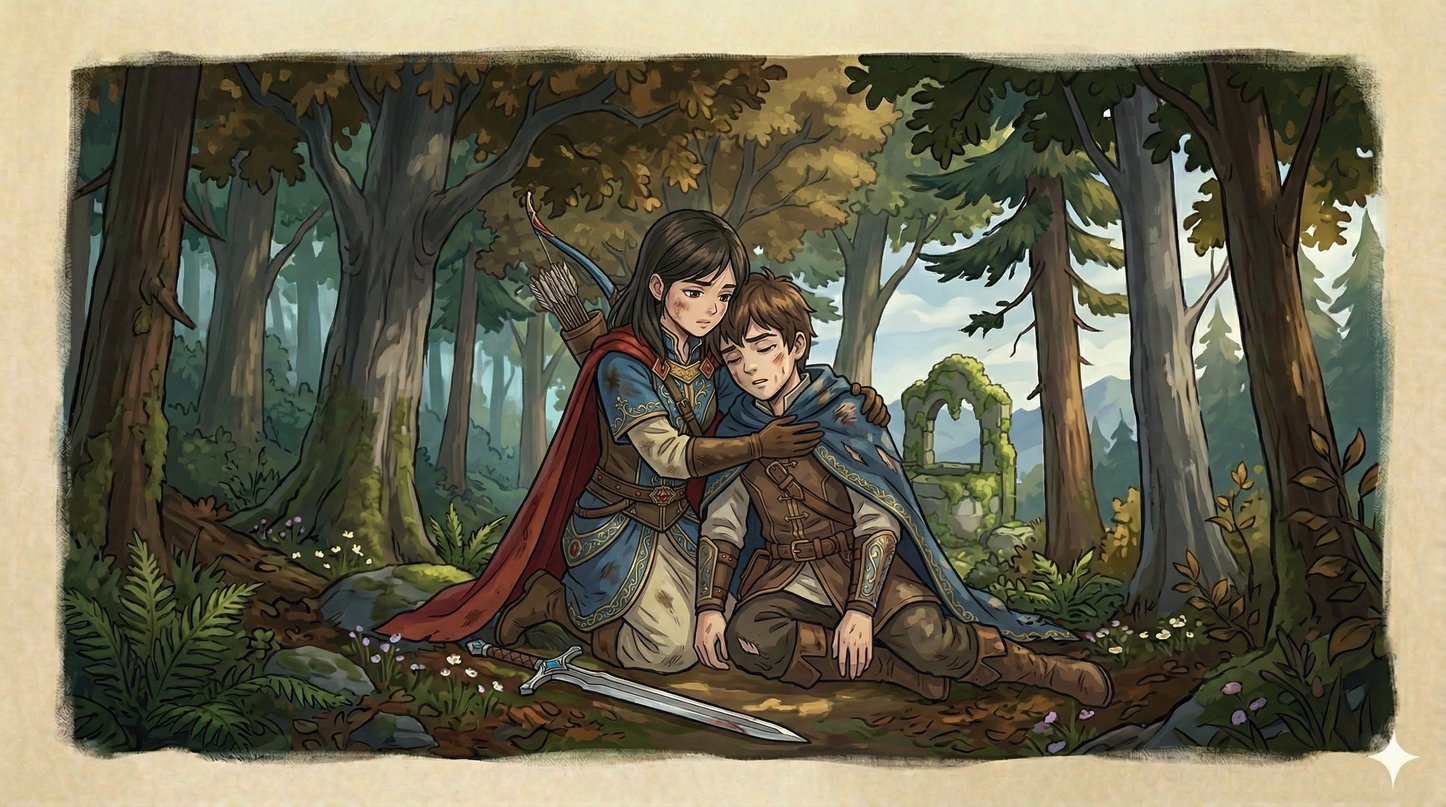
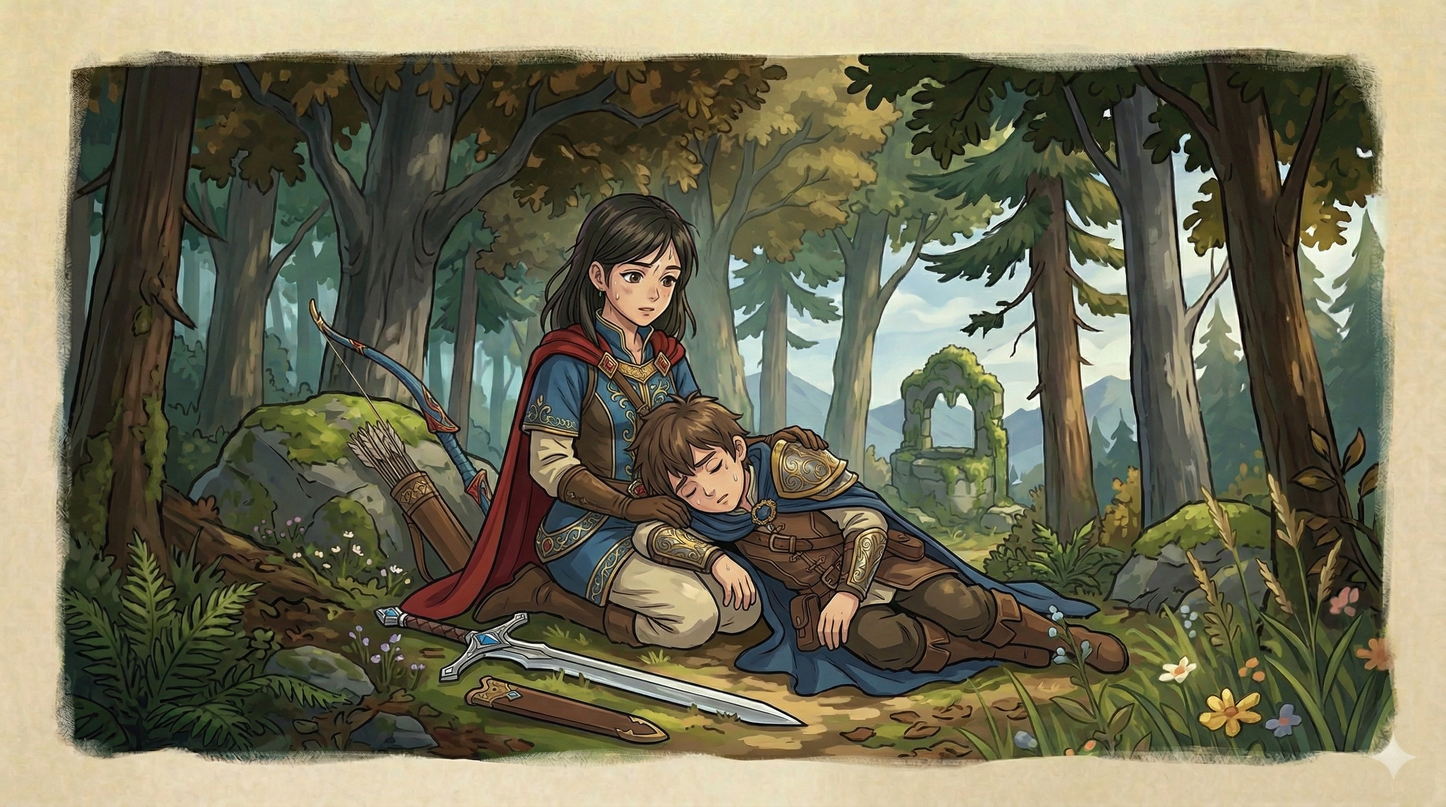
content: dialogue final ch2, assets forêt et CLAUDE.md mis à jour

diff --git a/CLAUDE.md b/CLAUDE.md
@@ -189,6 +189,11 @@ public/
 - **Tower XP**: Towers gain XP on hit (1 per hit), level up at thresholds (max level 3)
 - **Unlock system**: Some towers (wind) require a one-time gold unlock via `unlockTower()`, gated by level
 - **Enemies**: 5 types (basic, fast, tank, boss, flying). HP scales +12% per wave
+- **Taille ennemis par niveau** : 3 niveaux de granularité dans le thème :
+  - `enemyScale` : multiplicateur global pour tous les ennemis du niveau
+  - `enemyScales: { type: n }` : multiplicateur par type logique (basic, fast, tank…)
+  - `spriteScales: { sprite_name: n }` : multiplicateur par sprite individuel (ex. `enemy_fox: 0.7`) — utile quand plusieurs sprites partagent le même type logique
+  - `enemyAnchors: { type: n }` : override anchorY par type (utile pour sprites tight-croppés où les pattes sont en bas)
 - **Shop**: 5 consumables (heart, repair, nuke, rage buff, blizzard buff)
 - **Engine/Renderer split**: TDEngine has no DOM/PixiJS dependencies; TowerDefenseGame wires callbacks
 
@@ -206,7 +211,8 @@ public/images/td/
 
 **Règles pour les assets image :**
 - **Toujours redimensionner** avant d'intégrer dans le projet. Les images AI générées (Gemini) peuvent faire 1024–2048px — c'est beaucoup trop pour un sprite de jeu.
-- Tailles cibles : `256×256` pour tours/ennemis/effets, `128×128` pour tuiles, `512×512` max pour décors larges
+- Tailles cibles : `256×256` pour tours/ennemis/effets, `512×512` max pour décors larges
+- **Tuiles de sol** : exactement `256×156` (`TILE_WIDTH × TH_face`). Toujours redimensionner avec `PIL.Image.resize((256, 156), Image.LANCZOS)` avant intégration.
 - Utiliser `rembg` (Python) pour supprimer les fonds + `PIL.Image.resize()` pour redimensionner
 - Ne jamais committer un asset > 512px sans raison explicite
 
